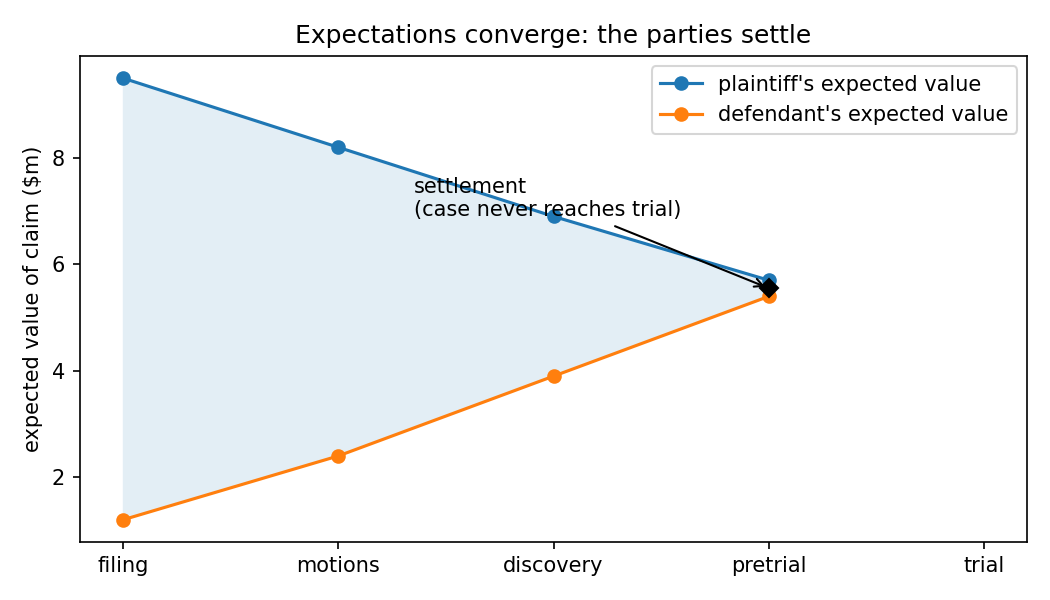
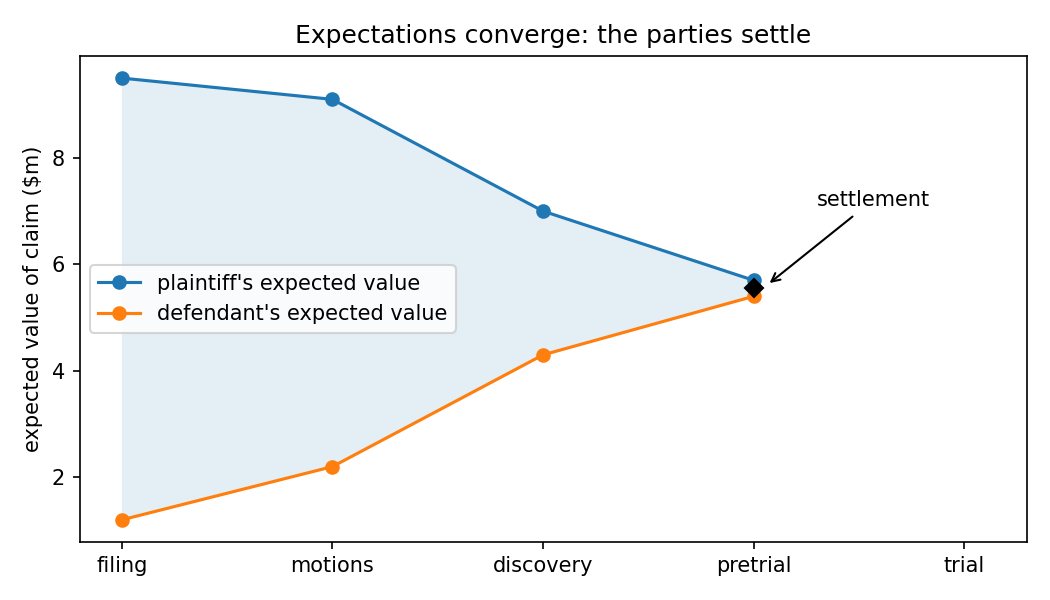
Rework litigation figures: non-linear paths, box-and-whisker forecasts

diff --git a/notes/legal-superintelligence.html b/notes/legal-superintelligence.html
@@ -83,8 +83,8 @@
 <p>Note that if two parties agree on the obligation to pay and the amount, there&rsquo;s no need to sue. If litigation is the means of fixing the value of harm done and compelling redress, and you don&rsquo;t need either of those, you don&rsquo;t go to court (which is universally acknowledged to be a pain in the ass).</p>
 
 <figure>
-  <img src="../assets/litigation-convergence.png" alt="Line chart across filing, motions, discovery and pretrial. The plaintiff's expected value falls from about $9.5m to $5.7m while the defendant's rises from about $1.2m to $5.4m; the gap between them shrinks to nearly nothing at pretrial, where a marker labels the settlement and the case never reaches trial.">
-  <figcaption>Expectations converge and the parties settle before trial.</figcaption>
+  <img src="../assets/litigation-convergence.png" alt="Line chart across filing, motions, discovery and pretrial. The plaintiff's expected value falls from about $9.5m to $5.7m and the defendant's rises from about $1.2m to $5.4m, both moving little between filing and the motion ruling, then sharply through discovery before flattening; a marker at pretrial labels the settlement.">
+  <figcaption>Expectations converge and the parties settle before trial. The paths are stylized: expectations move at discrete information events (the motion ruling, the close of discovery) rather than at a constant rate.</figcaption>
 </figure>
 
 <p>The parties start far apart on the expected value of the claim. As they move through the adjudication process, the expected values change in response to the behavior of the court, counterparties, and through new information produced in the discovery process. Ideally, the expected values converge as we move through the process. In this simplified model, parties settle when expected values converge (net of litigation costs, not factored here).</p>
@@ -99,8 +99,13 @@
 <p>A better model also captures each party&rsquo;s expectations as to the potential distribution of prices:</p>
 
 <figure>
+  <img src="../assets/litigation-forecast-boxes.png" alt="Box-and-whisker chart of each side's forecast at filing, motions, discovery and pretrial. The plaintiff's boxes sit high and the defendant's low, both wide at filing; the boxes narrow and their medians move toward each other, nearly meeting near $5.5m at pretrial.">
+  <figcaption>The same path, with each side holding a spread at every stage rather than a point.</figcaption>
+</figure>
+
+<figure>
   <img src="../assets/priest-klein-distributions.png" alt="Two overlapping bell curves over claim value. The defendant's distribution is centered near $3.9m and the plaintiff's near $6.6m, with the shaded overlap between them marked as the settlement range and a dotted line marking the true value of the claim at about $5.25m.">
-  <figcaption>Each side holds a distribution rather than a point; the overlap is the settlement range.</figcaption>
+  <figcaption>Overlapping forecasts at time <i>t</i> create settlement opportunities.</figcaption>
 </figure>
 
 <p>That&rsquo;s the Priest-Klein model, more or less.<sup class="fn" id="fnref4"><a href="#fn4">4</a></sup></p>

diff --git a/tools/make-litigation-figures.py b/tools/make-litigation-figures.py
@@ -2,7 +2,13 @@
 
 Plain matplotlib defaults (no styling), matching the existing Item 1A chart.
 Run:  python tools/make-litigation-figures.py
-Writes three PNGs into assets/.
+Writes four PNGs into assets/.
+
+The paths are stylized, not fitted. Expectations move at discrete information
+events (the motion ruling, the close of discovery) rather than smoothly, so the
+series below are deliberately non-linear: little movement early, most of the
+revision through discovery, then flattening as the two sides run out of things
+to learn.
 """
 import numpy as np
 import matplotlib
@@ -13,36 +19,50 @@ OUT = "assets/"
 STAGES = ["filing", "motions", "discovery", "pretrial", "trial"]
 x = np.arange(len(STAGES))
 
+# shared stylized paths (see module docstring)
+P_CONV = np.array([9.5, 9.1, 7.0, 5.7])   # plaintiff, converging case
+D_CONV = np.array([1.2, 2.2, 4.3, 5.4])   # defendant, converging case
+SD = np.array([2.2, 1.7, 1.0, 0.5])       # forecast dispersion, narrows over time
+
 
 def normal(grid, mu, sd):
     return np.exp(-0.5 * ((grid - mu) / sd) ** 2) / (sd * np.sqrt(2 * np.pi))
 
 
-# Fig 1 -- expectations converge; parties settle.
-# they converge at pretrial and settle there; the case never reaches trial
+def box_stats(mus, sds, label):
+    """Quartiles/whiskers implied by a normal forecast at each stage."""
+    out = []
+    for mu, sd in zip(mus, sds):
+        # a claim cannot be worth less than nothing, so clip the lower tail at 0
+        out.append(dict(med=mu, q1=max(mu - 0.674 * sd, 0.0),
+                        q3=mu + 0.674 * sd,
+                        whislo=max(mu - 1.5 * sd, 0.0), whishi=mu + 1.5 * sd,
+                        fliers=[], label=label))
+    return out
+
+
+# Fig 1 -- expectations converge; parties settle before trial.
 xs = x[:4]
-p = np.array([9.5, 8.2, 6.9, 5.7])
-d = np.array([1.2, 2.4, 3.9, 5.4])
 fig, ax = plt.subplots(figsize=(7, 4))
-ax.plot(xs, p, marker="o", label="plaintiff's expected value")
-ax.plot(xs, d, marker="o", label="defendant's expected value")
-ax.fill_between(xs, d, p, alpha=0.12)
+ax.plot(xs, P_CONV, marker="o", label="plaintiff's expected value")
+ax.plot(xs, D_CONV, marker="o", label="defendant's expected value")
+ax.fill_between(xs, D_CONV, P_CONV, alpha=0.12)
 ax.plot([3], [5.55], marker="D", color="k", zorder=5)
-ax.annotate("settlement\n(case never reaches trial)", xy=(3, 5.55), xytext=(1.35, 6.9),
+ax.annotate("settlement", xy=(3.06, 5.6), xytext=(3.3, 7.1),
             arrowprops=dict(arrowstyle="->"))
-ax.set_xlim(-0.2, 4.2)
+ax.set_xlim(-0.2, 4.3)
 ax.set_xticks(x)
 ax.set_xticklabels(STAGES)
 ax.set_ylabel("expected value of claim ($m)")
 ax.set_title("Expectations converge: the parties settle")
-ax.legend()
+ax.legend(loc="center left")
 fig.tight_layout()
 fig.savefig(OUT + "litigation-convergence.png", dpi=150)
 plt.close(fig)
 
 # Fig 2 -- expectations stay apart; the court fixes the price.
-p2 = np.array([9.5, 9.0, 8.4, 8.0, 7.8])
-d2 = np.array([1.2, 1.6, 2.2, 2.6, 2.8])
+p2 = np.array([9.5, 9.2, 8.3, 8.0, 7.8])
+d2 = np.array([1.2, 1.5, 2.3, 2.6, 2.8])
 fig, ax = plt.subplots(figsize=(7, 4))
 ax.plot(x, p2, marker="o", label="plaintiff's expected value")
 ax.plot(x, d2, marker="o", label="defendant's expected value")
@@ -59,25 +79,50 @@ fig.tight_layout()
 fig.savefig(OUT + "litigation-no-convergence.png", dpi=150)
 plt.close(fig)
 
-# Fig 3 -- Priest-Klein: each side holds a distribution, not a point.
-grid = np.linspace(-1, 12, 600)
-dp = normal(grid, 6.6, 1.7)   # plaintiff
-dd = normal(grid, 3.9, 1.7)   # defendant
+# Fig 3 -- the same path, but each side holds a spread at every stage.
 fig, ax = plt.subplots(figsize=(7, 4))
-ax.plot(grid, dp, label="plaintiff's distribution")
-ax.plot(grid, dd, label="defendant's distribution")
-ax.fill_between(grid, np.minimum(dp, dd), alpha=0.25,
-                label="overlap: settlement range")
+pos = np.arange(4, dtype=float)
+bp = ax.bxp(box_stats(P_CONV, SD, "plaintiff"), positions=pos - 0.15,
+            widths=0.22, showfliers=False, patch_artist=True)
+bd = ax.bxp(box_stats(D_CONV, SD, "defendant"), positions=pos + 0.15,
+            widths=0.22, showfliers=False, patch_artist=True)
+for box in bp["boxes"]:
+    box.set_facecolor("C0"); box.set_alpha(0.45); box.set_edgecolor("C0")
+for box in bd["boxes"]:
+    box.set_facecolor("C1"); box.set_alpha(0.45); box.set_edgecolor("C1")
+for part, colour in ((bp, "C0"), (bd, "C1")):
+    for key in ("whiskers", "caps", "medians"):
+        for artist in part[key]:
+            artist.set_color(colour)
+ax.set_xticks(pos)
+ax.set_xticklabels(STAGES[:4])
+ax.set_ylabel("expected value of claim ($m)")
+ax.set_title("Forecasts narrow as the case proceeds")
+handles = [plt.Line2D([], [], color="C0", lw=6, alpha=0.45, label="plaintiff's forecast"),
+           plt.Line2D([], [], color="C1", lw=6, alpha=0.45, label="defendant's forecast")]
+ax.legend(handles=handles, loc="upper right")
+fig.tight_layout()
+fig.savefig(OUT + "litigation-forecast-boxes.png", dpi=150)
+plt.close(fig)
+
+# Fig 4 -- a single time slice: the two forecasts overlap.
+grid = np.linspace(-1, 12, 600)
+dp = normal(grid, 6.6, 1.7)
+dd = normal(grid, 3.9, 1.7)
+fig, ax = plt.subplots(figsize=(7, 4))
+ax.plot(grid, dp, label="plaintiff's forecast")
+ax.plot(grid, dd, label="defendant's forecast")
+ax.fill_between(grid, np.minimum(dp, dd), alpha=0.25, label="overlap: settlement range")
 ax.axvline(5.25, linestyle=":", color="gray")
 ax.annotate("true value of claim", xy=(5.25, 0.10), xytext=(-0.6, 0.115),
             arrowprops=dict(arrowstyle="->", color="gray"), color="gray")
 ax.set_ylim(0, 0.28)
 ax.set_xlabel("value of claim ($m)")
 ax.set_ylabel("density")
-ax.set_title("Priest-Klein: each side holds a distribution, not a point")
+ax.set_title("Overlapping forecasts at time $t$ create settlement opportunities")
 ax.legend()
 fig.tight_layout()
 fig.savefig(OUT + "priest-klein-distributions.png", dpi=150)
 plt.close(fig)
 
-print("wrote 3 figures to " + OUT)
+print("wrote 4 figures to " + OUT)
